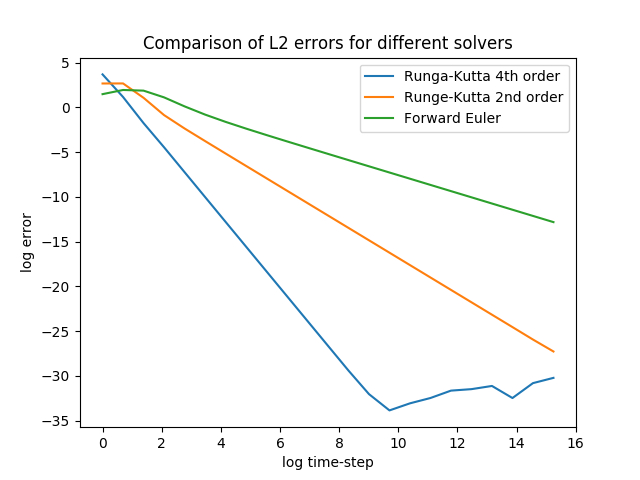
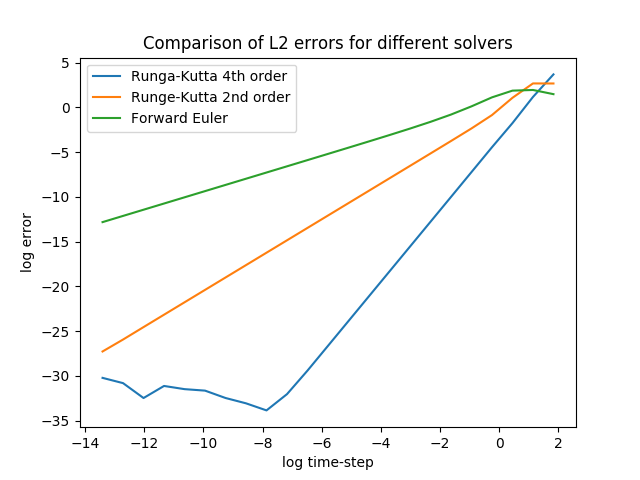
fixed bug

diff --git a/TestOdeSolvers.hpp b/TestOdeSolvers.hpp
@@ -322,7 +322,7 @@ public:
              euler_solver.SetInitialTimeNumberOfStepsAndFinalTime(0.0, num_steps, 2*M_PI /* 2*pi is one circuit */);
              double euler_error = SolveAndCalculateL2ErrorForCircle(&euler_solver);
 
-             write_output << num_steps <<  "," << euler_error << std::endl;
+             write_output << 2*M_PI/num_steps <<  "\t" << euler_error << std::endl;
          }
 
          write_output.close();

diff --git a/TestRK4Solver.hpp b/TestRK4Solver.hpp
@@ -140,7 +140,7 @@ public:
               rk4_solver.SetInitialTimeNumberOfStepsAndFinalTime(0.0, num_steps, 2*M_PI /* 2*pi is one circuit */);
               double rk4_error = SolveAndCalculateL2ErrorForCircle(&rk4_solver);
 
-              write_output << num_steps <<  "," << rk4_error << std::endl;
+              write_output << 2*M_PI/num_steps <<  "\t" << rk4_error << std::endl;
           }
 
           write_output.close();

diff --git a/TestHigherOrderOdeSolver.hpp b/TestHigherOrderOdeSolver.hpp
@@ -141,7 +141,7 @@ public:
               hi_solver.SetInitialTimeNumberOfStepsAndFinalTime(0.0, num_steps, 2*M_PI /* 2*pi is one circuit */);
               double hi_error = SolveAndCalculateL2ErrorForCircle(&hi_solver);
 
-              write_output << num_steps << "," << hi_error << std::endl;
+              write_output << 2*M_PI/num_steps << "\t" << hi_error << std::endl;
           }
 
           write_output.close();
